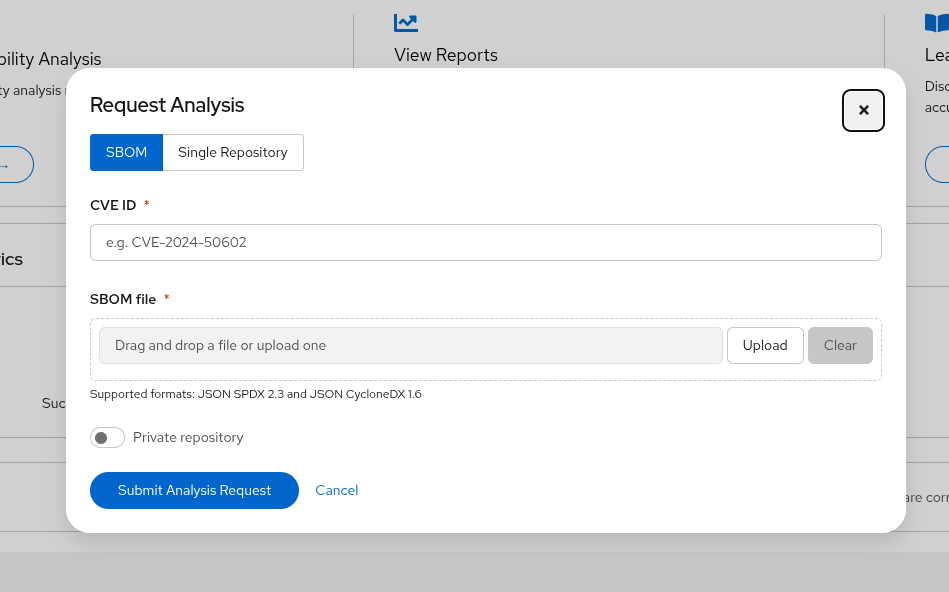
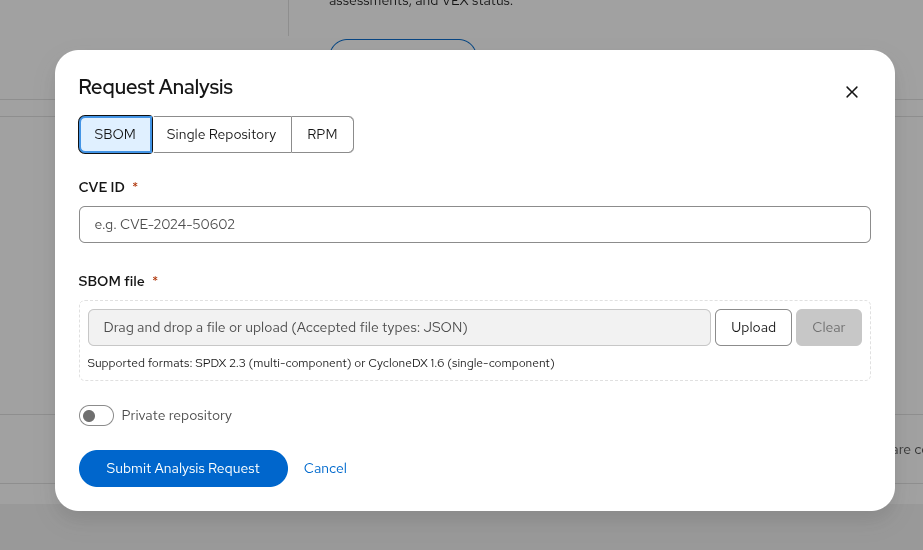
docs: update README file (#253)

Pull request: docs: update README file
Update the README file regarding new features and changes
[Jira](https://redhat.atlassian.net/issues?filter=106533&selectedIssue=APPENG-5499)

diff --git a/README.md b/README.md
@@ -50,10 +50,11 @@ In this section, you will find a summary of system performance from the past sev
 
 ### Request Analysis
 
-The _Request Analysis_ dialog lets you choose an input type with **SBOM** or **Single Repository**, then enter a CVE ID to analyze.
+The _Request Analysis_ dialog lets you choose an input type with **SBOM**, **Single Repository**, or **RPM**, then enter a CVE ID to analyze.
 
 - **SBOM:** Upload a JSON SBOM file. Supported formats: **SPDX 2.3** and **CycloneDX 1.6** JSON. Refer to [SBOM Requirements](./docs/sbom-requirements.md) for details on expected SBOM structure.
-- **Single Repository:** Provide a source repository URL and a commit ID instead of an SBOM file.
+- **Single Repository:** Provide a source repository URL and a commit ID instead of an SBOM file. Expand **Advanced** (optional) to set a **Manifest path** within the repo or a **Programming language** (`go`, `python`, `javascript`, `java`, or `c`); leave both blank to let the agent autodetect.
+- **RPM:** Provide the package as a hyphen-separated **name-version-release** (N-V-R), for example `openssl-3.0.7-5.el9`, and select an architecture.
 
 For private repositories, enable **Private repository** and enter an **Authentication secret** (SSH private key or Personal Access Token; the form auto-detects the type).
 
@@ -61,14 +62,18 @@ For private repositories, enable **Private repository** and enter an **Authentic
 
 ![request_analysis](./docs/images/request_analysis.png)
 
-Once you have filled in the required fields for your chosen mode (SBOM file or repository and commit) and the CVE ID, you will be able to submit the request
+Once you have filled in the required fields for your chosen mode (SBOM file, repository and commit, or RPM package and architecture) and the CVE ID, you will be able to submit the request
 
 
 After submitting the request, you will be redirected to the Report page. Once the analysis is complete, you will find a detailed report featuring the Agent's results for your request along with additional data insights.
 
 ![report](./docs/images/report.png)
 
-- **Direct Links:** You will find that the _Repository Name_ links directly to the git repository, while the _Commit ID_ links to the specific commit used in the analysis.
+- **Direct Links:** For repository-based analyses, the _Repository Name_ links directly to the git repository, while the _Commit ID_ links to the specific commit used in the analysis. For **RPM** requests, the report shows the package N-V-R, architecture, and an RPM package URL instead of repository details.
+
+An example RPM report detail page:
+
+![report_rpm](./docs/images/report_rpm.png)
 
 
 **Note:** There is a configurable pool of concurrent requests. Any request that is submitted when the pool is full will be queued. If after a certain time a callback response is not received, the report will be _expired_ (failed).
@@ -85,14 +90,16 @@ you will navigate to the CVE Details page where you can find details about a spe
 
 ### Reports Page
 
-The Reports area is split into two tabs: **SBOMs** and **Single Repositories**. Use the tab that matches how the analysis was submitted to browse, sort, filter, and open results for each report type.
+The Reports area is split into three tabs: **SBOMs**, **Single Repositories**, and **RPM**. Use the tab that matches how the analysis was submitted to browse, sort, filter, and open results for each report type.
 
-**Report Organization:** Each row represents a report for that tab’s context (SBOM-based products or single-repository analyses), which may reflect one component or many depending on the original request.
+**Report Organization:** Each row represents a report for that tab’s context (SBOM-based products, single-repository analyses, or RPM package checks), which may reflect one component or many depending on the original request.
 
 You will be able to sort, filter, and organize the reports table to quickly locate specific data.
 
 ![reports_page](./docs/images/reports_page.png)
 ![reports_page_single](./docs/images/reports_page_single.png)
+![reports_page_rpm](./docs/images/reports_page_rpm.png)
+
 
 After clicking a _ID_ link, you will find one of two views depending on the request type:
 
@@ -116,6 +123,10 @@ On this page, you will find:
 You will be able to sort, filter, and organize the reports to quickly locate specific data.
 
 - **ID link:** Finally, By clicking the _ID_ link, you will be taken to the detailed report page for that specific repository, the same page you would access directly for a single-component SBOM.
+
+### Excluded Components Page
+
+For multi-component SBOM reports, some components may fail before analysis starts (for example during Syft SBOM generation or metadata validation). On the SBOM overview **Report** page, when any components were excluded, the **Excluded components** link opens a table of those failures: **Component**, **Package URL**, and **Error**. Use this page to see why specific images or packages were not analyzed and what to fix in the SBOM or image metadata.
 
 ### Report
 